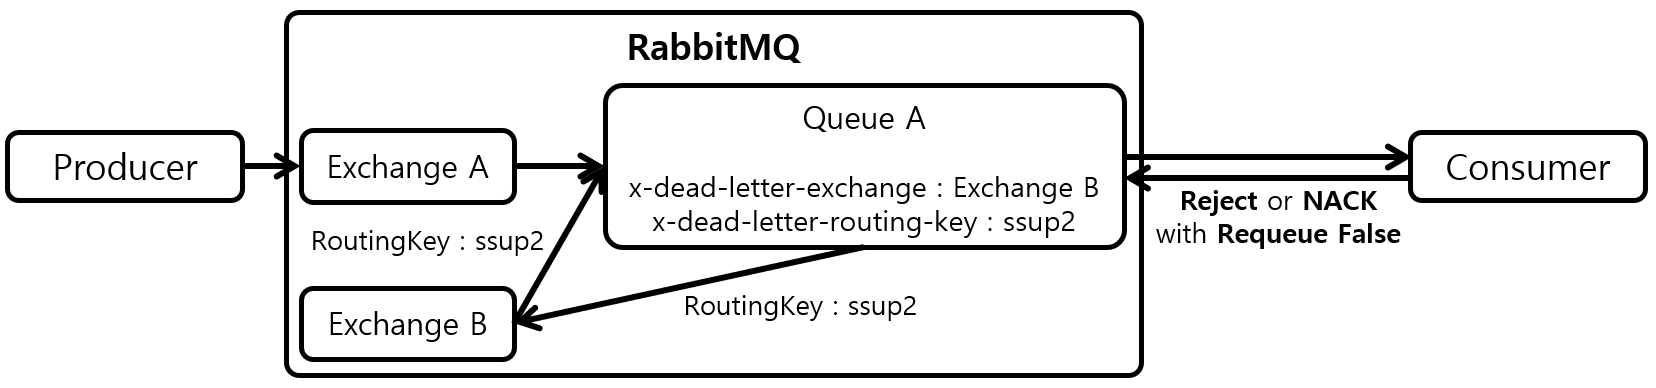
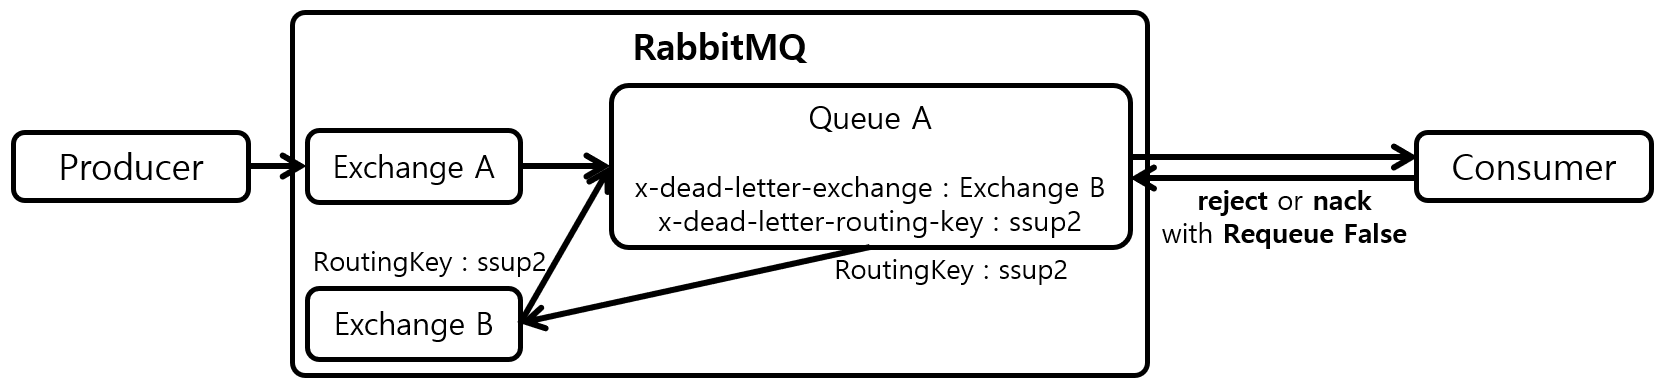
Update

diff --git a/_docs/theory_analysis/RabbitMQ_DLX.md b/_docs/theory_analysis/RabbitMQ_DLX.md
@@ -11,8 +11,31 @@ RabbitMQ의 DLX(Dead Letter Exchange)를 분석한다.
 
 ### 1. RabbitMQ DLX(Dead Letter Exchange)
 
-![]({{site.baseurl}}/images/theory_analysis/RabbitMQ_DLX/RabbitMQ_DLX.PNG){: width="700px"}
+RabbitMQ DLX(Dead Letter Exchange)는 Dead Letter가 된 Massage를 지정된 Exchange에 전송하는 기능이다. Message가 Dead Letter가 되는 조건은 다음의 3가지가 존재한다.
+
+* Consumer가 Requeue False 설정이 되어있는 reject/nack 응답을 통해서 거절한 Message. Consumer가 Requeue True 설정이 되어 있는 reject/nack 응답을 통해서 거절한 Message는 Message가 존재했던 Queue에 다시 Requeue되고 DLX 기능은 동작하지 않는다.
+* Per-message TTL (Time to Leave)이 만료한 Message.
+* Queue가 가득차서 버려진 Message.
+
+![[그림 1] RabbitMQ DLX(Dead Letter Exchange)]({{site.baseurl}}/images/theory_analysis/RabbitMQ_DLX/RabbitMQ_DLX.PNG)
+
+[그림 1]은 Consumer의 Message 거절에 따른 RabbitMQ의 DLX 기능의 처리과정을 나타내고 있다. Exchange A와 Exchange B는 Queue A와 Binding 되어 있다. Queue A는 DLX로 Exchange B가 설정되어 있다. Dead Letter Routing Key는 DLX로 전송하는 Message의 Routing Key를 설정하는 옵션이다. Queue A의 Dead Letter Routing Key는 "ssup2" 문자열로 설정되어 있다. Queue에 Dead Letter Routing Key는 반드시 설정될 필요는 없으며 필요에 따라 설정하면 된다. Message 처리 과정은 다음과 같다.
+
+* Producer가 Consumer에게 전송한 Message는 Exchange A, Queue A를 지나 Consumer에게 전송한다. 
+* Consumer는 RabbitMQ로부터 전송 받은 Message를 Requeue 설정이 되어있지 않는 reject 또는 nack 응답을 통해서 거절한다. 
+* Message는 Routing Key로 "ssup2" 문자열와 함께 DLX로 지정되어 있는 Exchange B로 전송된다.
+* Exchange B는 Binding 되어있는 Queue A에게 Message를 전송한다.
+* Message는 다시 Consumer에게 전송된다.
+
+Dead Letter가 된 Message의 "x-death" Header에는 Message가 Dead Letter가 된 이유 및 관련 정보가 저장되어 있다. "x-death" Header에 저장되어 있는 주요 정보는 다음과 같다.
+
+* reason : Message가 Dead Letter가 된 이유.
+* time : Message가 Dead Letter가 시간.
+* count : 동일한 reason, 동일한 queue에서 Message가 Dead Letter가 된 횟수. 
+* queue : Message가 Dead Letter가 되기전에 존재했던 Queue.
+* exchange : Dead Letter가 된 Message를 마지막으로 처리한 Exchange. 여러번 DLX에 의해서 처리된 Message의 경우 DLX 정보가 저장되어 있을 수 있다.
+
 
 ### 2. 참조
 
-* [https://www.rabbitmq.com/reliability.html](https://www.rabbitmq.com/reliability.html)
+* [https://www.rabbitmq.com/dlx.html](https://www.rabbitmq.com/dlx.html)
